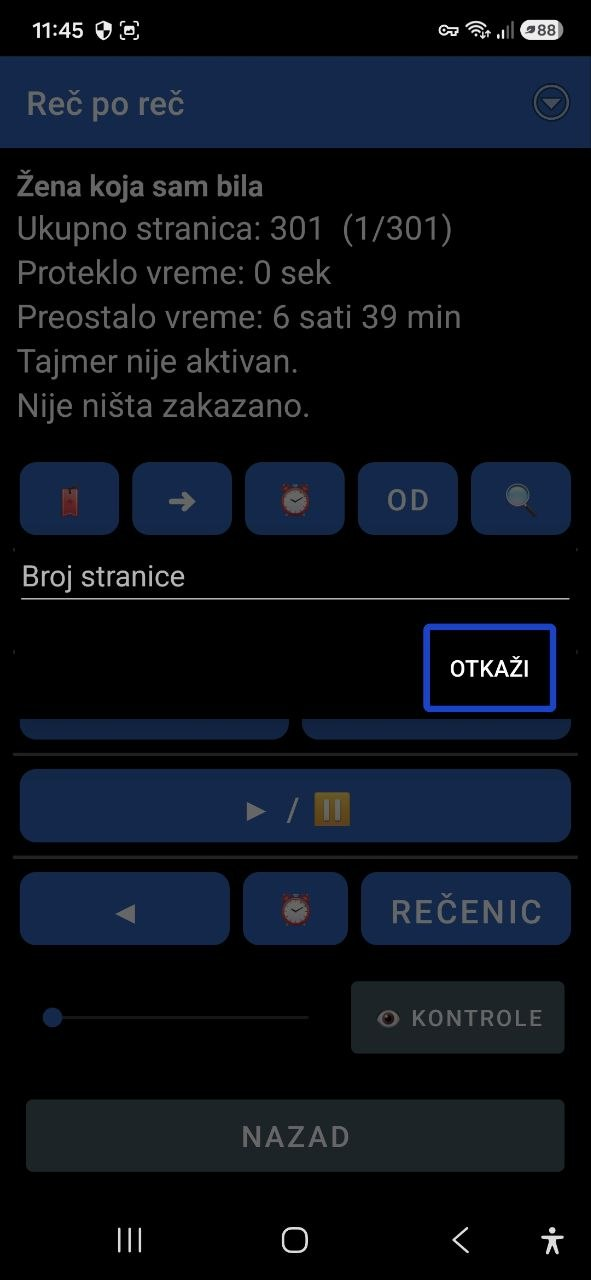
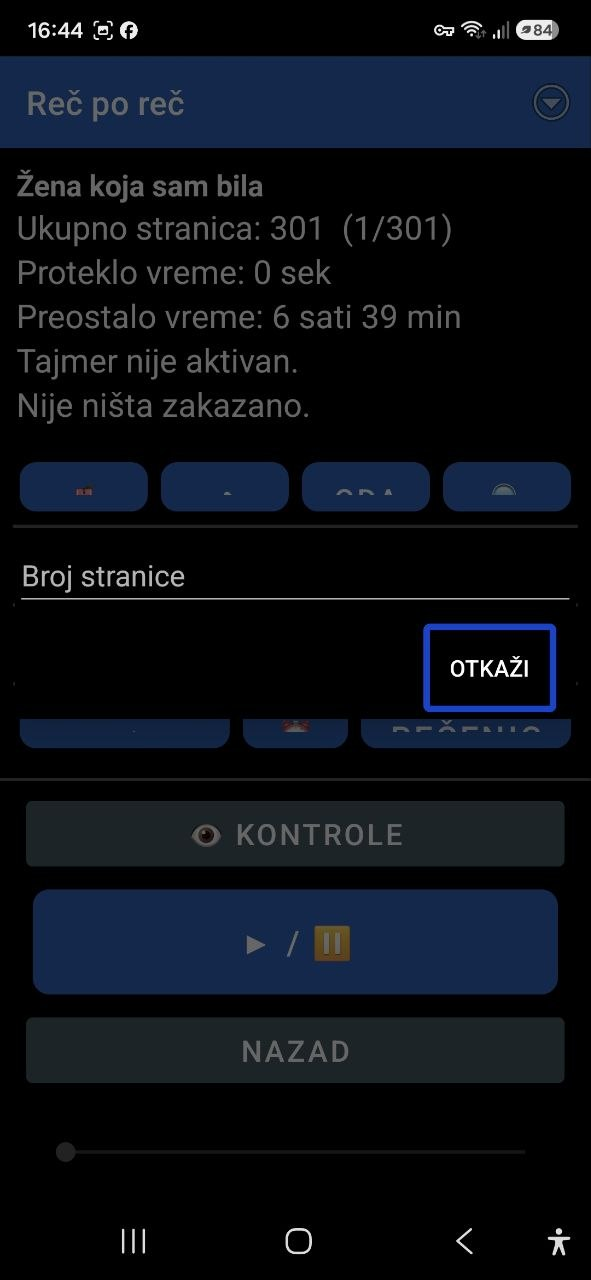
Uklonjena suvisna recenica o klizacu iz Pomoci. Azurirani F-Droid screenshotovi (12 slika, ukljucena potvrda cistog 'sakrij kontrole' prikaza). Changelog 402.

diff --git a/app/src/main/java/com/recporec/app/ui/HelpActivity.kt b/app/src/main/java/com/recporec/app/ui/HelpActivity.kt
@@ -131,7 +131,6 @@ class HelpActivity : AppCompatActivity() {
         Tada dokument ostaje otvoren.
         Na samom kraju, posle Nazad, je veći klizač za lakši dodir, preko celog ekrana.
         Pokazuje gde si u knjizi, i možeš ga prstom prevući na drugo mesto.
-        Namerno je poslednji, posle Nazad, da se do njega ne dođe usput dok žuriš ka Kontrole, Pusti-pauziraj ili Nazad.
         Pri vrhu ekrana piše broj stranica, proteklo i preostalo vreme, informacije o buđenju i zakazanom čitanju.
         Dug pritisak na prečicu Reč po reč na početnom ekranu, pored uobičajenih sistemskih mogućnosti, nudi ti nastavak i pauziranje čitanja.
         Pauza-nastavak direktno otvara poslednji dokument i omogućava ti da ga pustiš ili pauziraš.
